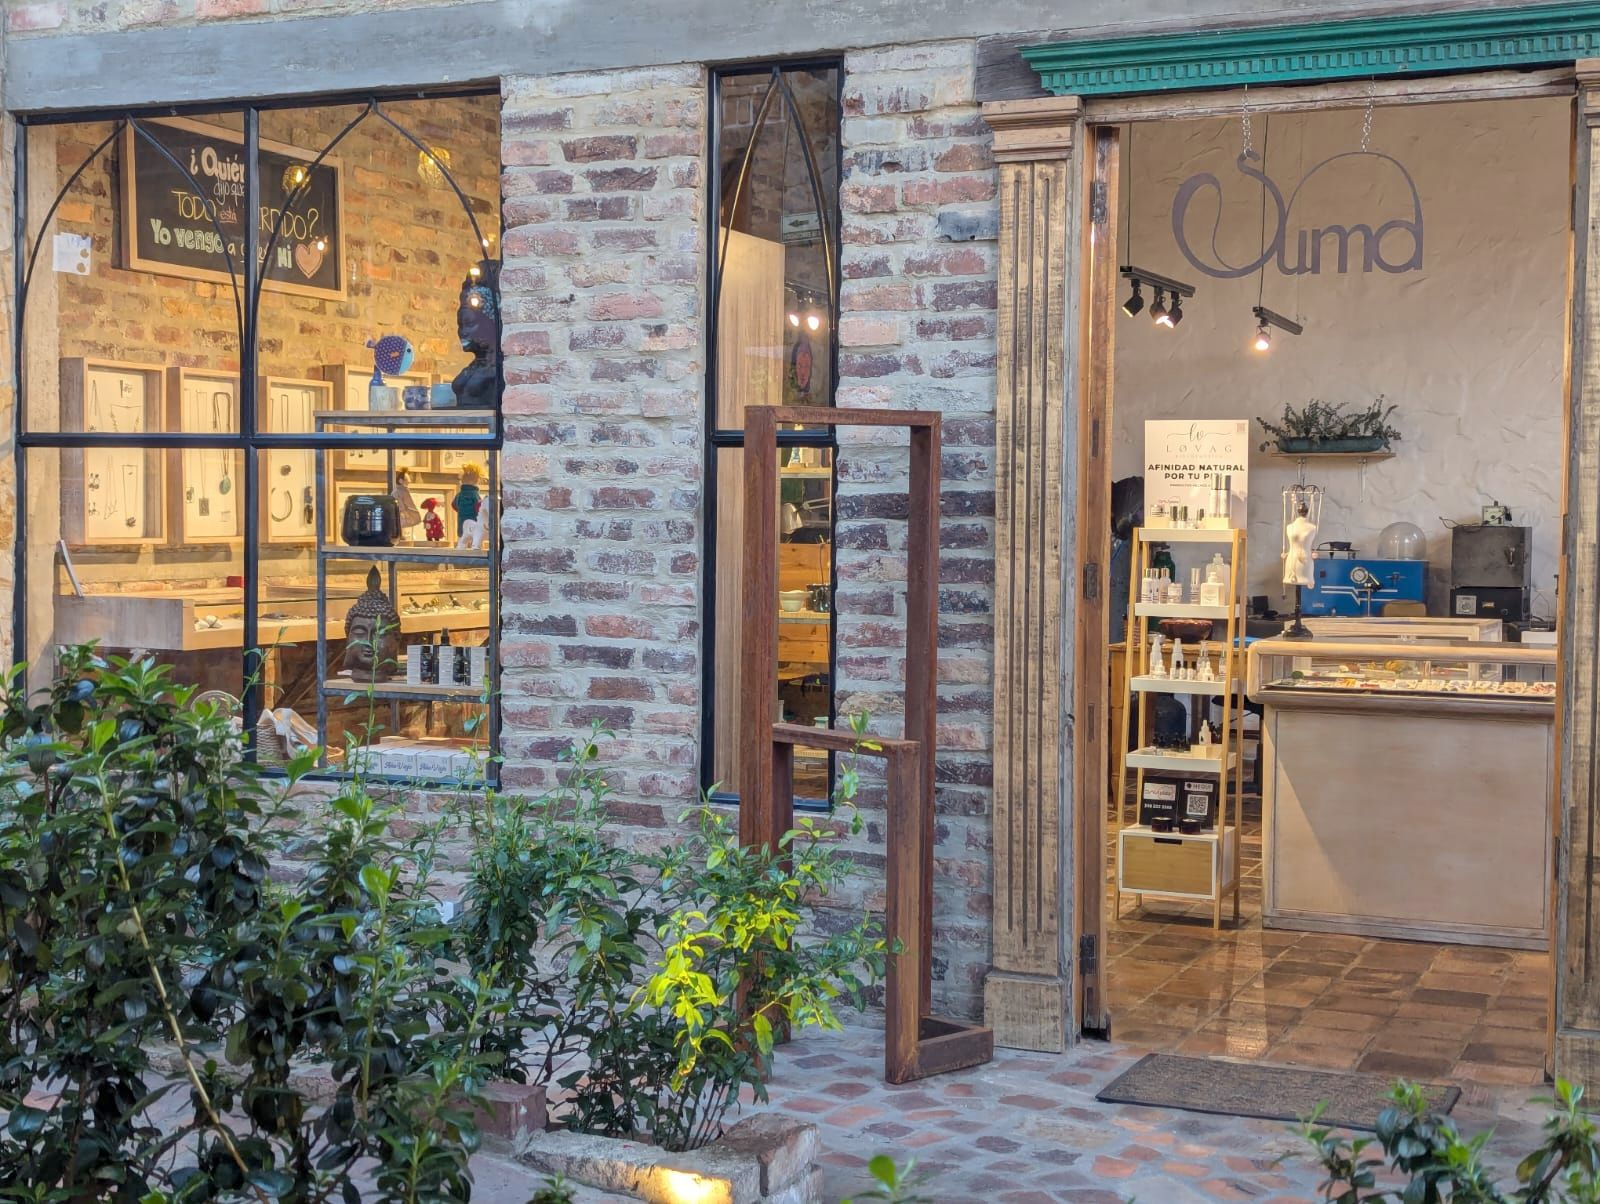
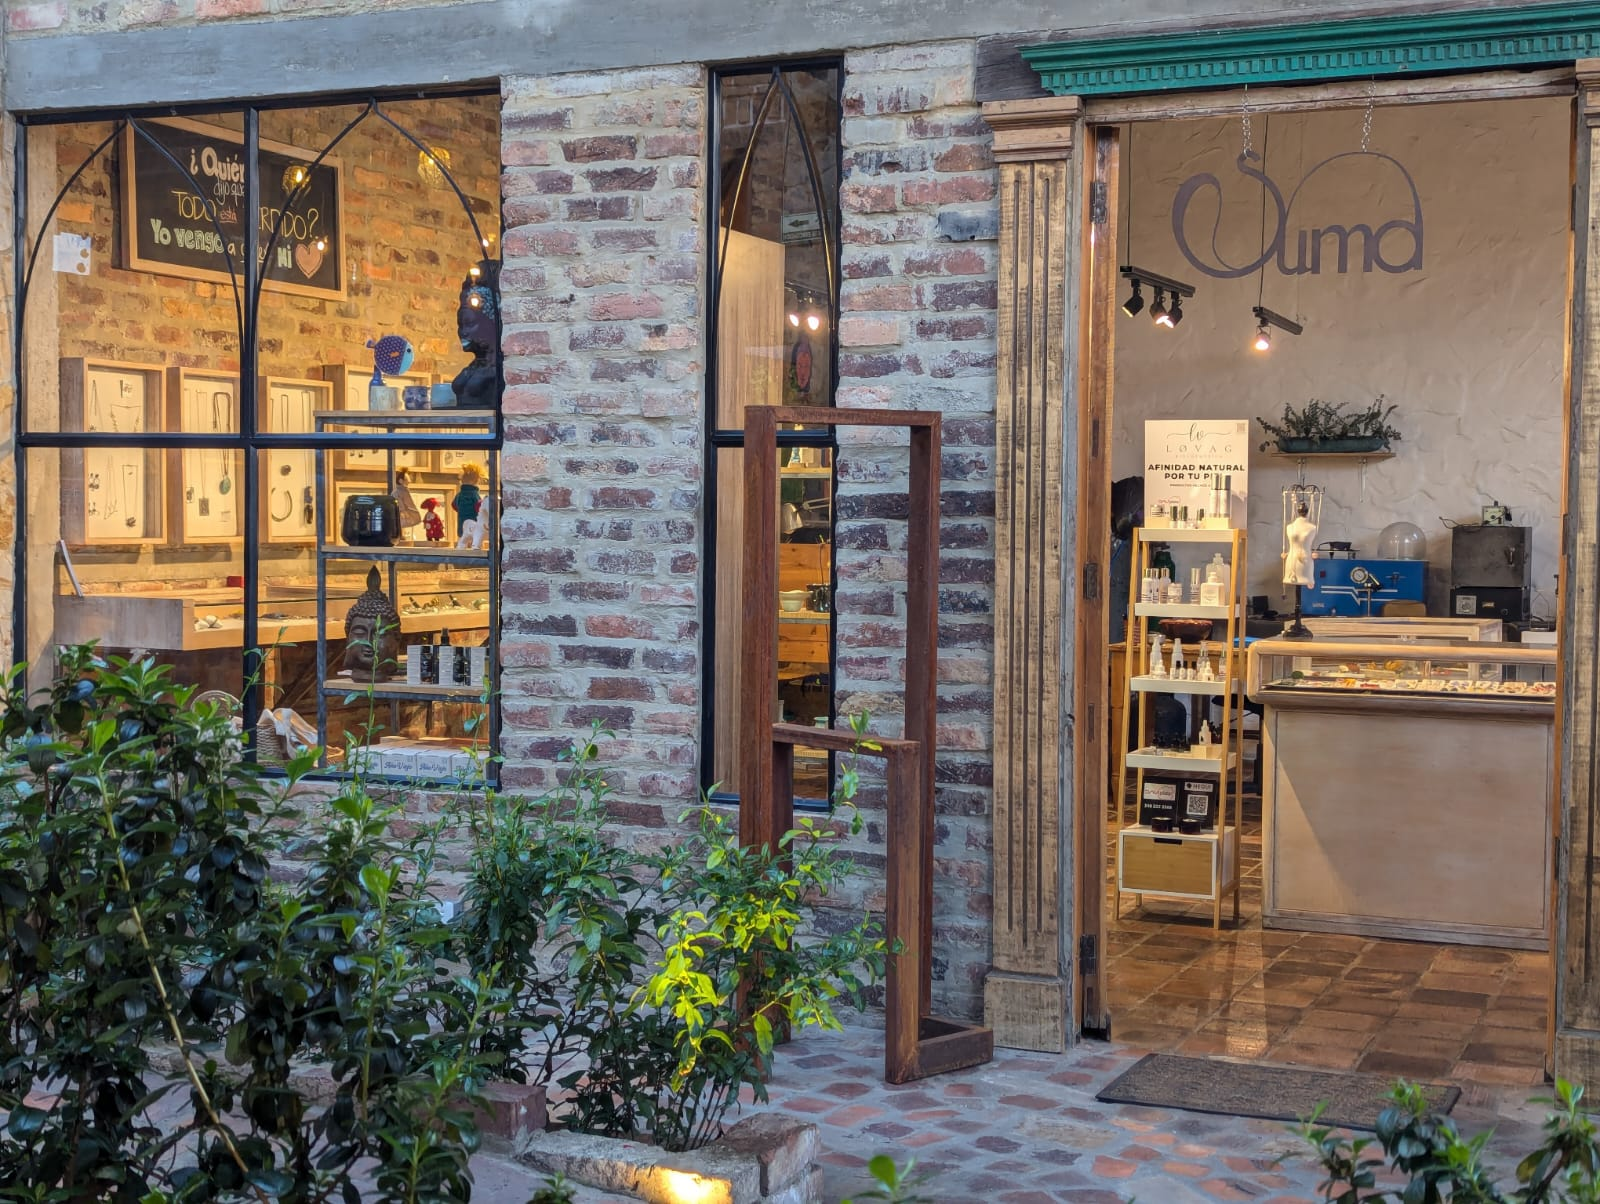
Portada: la foto entera y con el brillo del original; el texto va al lado
Sale el velo oscuro y la opacidad al 82 % que apagaban la foto, y vuelve el
archivo de la carpeta de originales en lugar de la versión aclarada dos veces.
AGENTS documenta la regla.

Changed region(s): [[0.5, 0.8297, 0.5312, 0.8605], [0.4062, 0.7683, 0.4375, 0.799]]

diff --git a/src/styles/global.css b/src/styles/global.css
@@ -75,10 +75,6 @@ h3 { font-size: 1.35rem; }
   font-weight: 500;
 }
 
-.hero .eyebrow,
-.hero .btn { border-color: var(--accent); color: var(--accent); }
-.hero .btn--light { background: var(--accent); border-color: var(--accent); color: #16302a; }
-.hero .btn:hover { background: var(--accent); color: #16302a; border-color: var(--accent); }
 
 .section {
   padding: 5rem 0;
@@ -164,61 +160,47 @@ h3 { font-size: 1.35rem; }
   border-radius: var(--radius);
 }
 
-/* Hero */
+/* Hero
+   La foto va entera y con el brillo del archivo original: sin velo, sin
+   opacidad y sin filtro. El texto va al lado, sobre el fondo del sitio, nunca
+   encima de la foto. Si la foto se ve oscura, la causa se busca aquí antes de
+   retocar el archivo. */
 .hero {
-  position: relative;
-  min-height: 82vh;
+  padding: 3.5rem 0 4rem;
+}
+.hero-grid {
   display: grid;
+  grid-template-columns: minmax(0, 1fr) minmax(0, 1.25fr);
+  gap: 3.5rem;
   align-items: center;
-  overflow: hidden;
-  background: var(--ink);
-  color: #fdf8f4;
 }
 .hero-media {
-  position: absolute;
-  inset: 0;
+  margin: 0;
 }
 .hero-media img {
   width: 100%;
-  height: 100%;
-  object-fit: cover;
-  /* La franja visible se alinea al borde de arriba: ahí queda el letrero SUMA
-     colgado de la puerta. Con el recorte centrado, quedaba fuera. */
-  object-position: top center;
-  opacity: 0.82;
-}
-.hero-overlay {
-  position: absolute;
-  inset: 0;
-  background:
-    linear-gradient(100deg, rgba(20, 16, 12, 0.70) 0%, rgba(20, 16, 12, 0.42) 45%, rgba(20, 16, 12, 0.10) 100%),
-    linear-gradient(180deg, rgba(20, 16, 12, 0.08), rgba(20, 16, 12, 0.30));
-}
-.hero .container {
-  position: relative;
-  z-index: 1;
-  padding-top: 4rem;
-  padding-bottom: 4rem;
-}
-.hero h1 {
-  max-width: 14ch;
-  margin-bottom: 0.35em;
+  height: auto;
 }
 .hero-logo {
   max-width: none;
-  margin: 0.2rem 0 0.9rem;
+  margin: 0.6rem 0 1.1rem;
 }
 .hero-logo img {
   width: min(360px, 78vw);
   height: auto;
-  filter: brightness(0) invert(1);
 }
 .hero .tagline {
   font-size: 1.2rem;
   font-weight: 300;
   letter-spacing: 0.04em;
   max-width: 46ch;
-  color: #efe7db;
+  color: var(--ink-soft);
+}
+.hero-botones {
+  display: flex;
+  flex-wrap: wrap;
+  gap: 0.75rem;
+  margin-top: 2rem;
 }
 
 /* Buttons */
@@ -600,11 +582,11 @@ h3 { font-size: 1.35rem; }
   .nav-toggle { display: block; }
 }
 
-/* En pantalla angosta la ventana del encabezado es más vertical que la foto y
-   recorta los lados: el letrero SUMA queda del lado derecho de la foto, así
-   que ahí se encuadra. En escritorio se sigue mostrando la franja de arriba. */
-@media (max-width: 1023px) {
-  .hero-media img { object-position: right top; }
+/* En pantalla angosta la foto va arriba, entera, y el texto debajo. */
+@media (max-width: 900px) {
+  .hero { padding-top: 1.5rem; }
+  .hero-grid { grid-template-columns: 1fr; gap: 2rem; }
+  .hero-media { order: -1; }
 }
 
 @media (max-width: 800px) {

diff --git a/AGENTS.md b/AGENTS.md
@@ -200,6 +200,13 @@ a Subachoque.
 Los originales viven fuera del repositorio, en
 `F:\OneDrive\1.SUMA LOCAL HYGGE\WEB SUMA\01 FOTOS\`.
 
+**Las fotos se ven con el brillo del archivo.** Nada encima: ni velo, ni
+degradado, ni `opacity`, ni `filter`. El texto va al lado o debajo, nunca sobre
+la foto. La portada estuvo un tiempo con un velo oscuro y opacidad al 82 %, y
+se intentó compensar aclarando el JPG dos veces; la foto seguía apagada porque
+la causa estaba en el CSS. Si una foto se ve oscura, se busca primero ahí, y el
+archivo que se sube es el de la carpeta de originales, sin retocar.
+
 ---
 
 ## Tipografías
